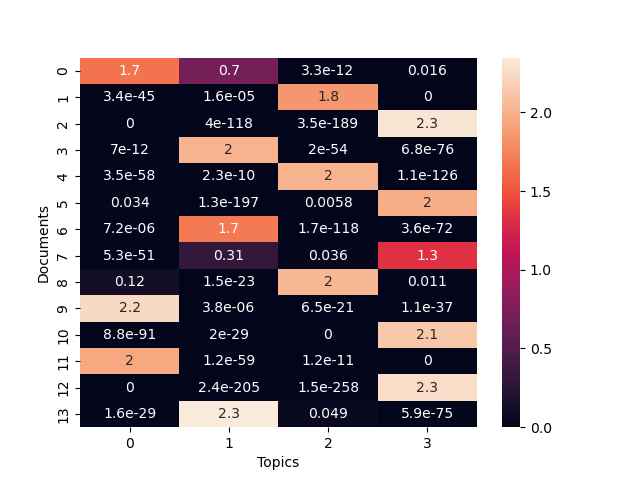
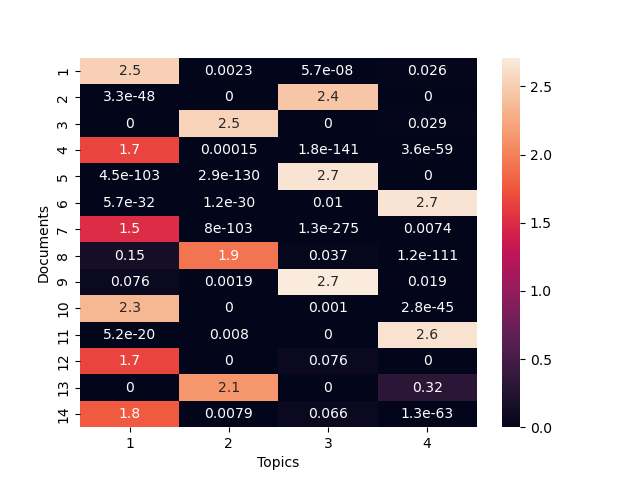
update topics numerotation

diff --git a/script3.js b/script3.js
@@ -48,7 +48,7 @@ fetch('nmf_results3.json')
                     // Create a div containing a text with the title in bold
                     const textDiv = document.createElement('div');
                     textDiv.classList.add('text');
-                    textDiv.innerHTML = `<strong>${index}:</strong> ${text}`;
+                    textDiv.innerHTML = `<strong>Text ${index+1}:</strong> ${text}`;
                     textListDiv.appendChild(textDiv);
 
                 });

diff --git a/script.js b/script.js
@@ -48,7 +48,7 @@ fetch('nmf_results.json')
                     // Create a div containing a text with the title in bold
                     const textDiv = document.createElement('div');
                     textDiv.classList.add('text');
-                    textDiv.innerHTML = `<strong>${index}:</strong> ${text}`;
+                    textDiv.innerHTML = `<strong>Text ${index+1}:</strong> ${text}`;
                     textListDiv.appendChild(textDiv);
 
                 });

diff --git a/index2.html b/index2.html
@@ -8,8 +8,8 @@
 </head>
 <body>
     <h1>NMF Text Mining Results</h1>
-    <a href="index.html" style="display: flex;">3 topics</a>
-    <a href="index3.html" style="display: flex;">2 topics</a>
+    <a href="index.html" style="color: lightslategray;">3 topics</a><br>
+    <a href="index3.html" style="color: lightslategray;">2 topics</a>
     <div id="content">
         <div id="texts">
             <h2>Original texts</h2>

diff --git a/index.html b/index.html
@@ -8,8 +8,8 @@
 </head>
 <body>
     <h1>NMF Text Mining Results</h1>
-    <a href="index2.html">4 topics</a><br>
-    <a href="index3.html">2 topics</a>
+    <a href="index2.html" style="color: lightslategray;">4 topics</a><br>
+    <a href="index3.html" style="color: lightslategray;">2 topics</a>
     <div id="content">
         <div id="texts">
             <h2>Original texts</h2>

diff --git a/index3.html b/index3.html
@@ -8,8 +8,8 @@
 </head>
 <body>
     <h1>NMF Text Mining Results</h1>
-    <a href="index.html">3 topics</a><br>
-    <a href="index2.html">4 topics</a>
+    <a href="index.html" style="color: lightslategray;">3 topics</a><br>
+    <a href="index2.html" style="color: lightslategray;">4 topics</a>
     <div id="content">
         <div id="texts">
             <h2>Original texts</h2>

diff --git a/NMF_implementation.py b/NMF_implementation.py
@@ -112,16 +112,17 @@ def NMF_algorithm(n_topics, X):
 # Step 1: Preprocess text and build TF-IDF matrix
 vectorizer = TfidfVectorizer(stop_words='english')
 X = vectorizer.fit_transform(document_vector)  # Creates the document-term matrix
+n_topics = 2
 
 # plot matrix X with values noted in the cells
-sns.heatmap(X.toarray()[:,:12], annot=True, cmap='coolwarm')
+sns.heatmap(X.toarray()[:,:12],yticklabels=[f"{i+1}" for i in range (X.shape[0])], annot=True, cmap='coolwarm')
 plt.xlabel("Words")
 plt.ylabel("Documents")
 plt.autoscale()
 plt.savefig("heatmap3.png")
 plt.show()
 
-n_topics = 2
+
 
 # Step 2: Apply NMF for topic modeling
 def apply_nmf(n_topics, X_input):
@@ -134,7 +135,7 @@ W, H, ratio, list_norm = NMF_algorithm(n_topics, X)
 print(f"X shape = {X.shape} and number of elements = {X.shape[0]*X.shape[1]}")
 print(f"total number of elements = {W.shape[0]*W.shape[1] + H.shape[0]*H.shape[1]}")
 
-sns.heatmap(W, annot=True)
+sns.heatmap(W, annot=True, xticklabels=[f"{i+1}" for i in range (n_topics)],yticklabels=[f"{i+1}" for i in range (X.shape[0])])
 plt.xlabel("Topics")
 plt.ylabel("Documents")
 plt.autoscale()
@@ -158,7 +159,7 @@ for i, topic in enumerate(H):
     # print(f"The documents about {terms[topic.argsort()[-1]]} are the documents: " + ", ".join(documents_by_topic[i]))
 
 ratios = [apply_nmf(i +1, X)[2] for i in range(14)]
-keywords_per_topic = {f"Topic {i+1}": terms[np.argsort(H[i, :])[-3:][::-1]].tolist() for i in range(n_topics)}
+keywords_per_topic = {f"Topic {i+1}": terms[np.argsort(H[i, :])[-5:][::-1]].tolist() for i in range(n_topics)}
 print(keywords_per_topic)
 
 # Assignation des topics aux documents
